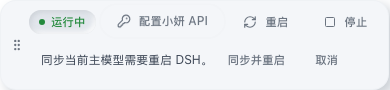
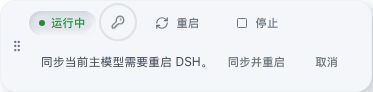
fix: 将浮窗 API 配置入口收为图标提示

diff --git a/apps/desktop/src/features/deepseek-harness/DshRuntimeControls.tsx b/apps/desktop/src/features/deepseek-harness/DshRuntimeControls.tsx
@@ -28,8 +28,8 @@ export default function DshRuntimeControls({
       </span>
       {phase === "running" && (
         <>
-          {onImportApi && <Button variant="ghost" size="sm" onClick={onImportApi} disabled={busy} title="同步小妍当前主模型到 DSH">
-            <KeyRound className="h-3.5 w-3.5" />配置小妍 API
+          {onImportApi && <Button variant="ghost" size="sm" className="h-8 w-8 flex-shrink-0 !p-0" onClick={onImportApi} disabled={busy} aria-label="配置小妍 API" title="配置小妍 API">
+            <KeyRound className="h-3.5 w-3.5" aria-hidden="true" />
           </Button>}
           <Button variant="ghost" size="sm" onClick={onRestart} disabled={busy}>
             <RefreshCw className="h-3.5 w-3.5" />

diff --git a/docs/releases/0.6.1-preflight.md b/docs/releases/0.6.1-preflight.md
@@ -15,7 +15,7 @@ GitHub 实际最新已发布版本为 `v0.5.4`。更新日志以 `git diff v0.5.
 
 - DSH 自动进入官方界面；旧必经启动页移至 `LegacyDshLaunchWorkspace.tsx`，仅注释原入口，保留完整源码与配置回归。
 - 非 DSH 的页面、后端模块、注册与设置入口注释停用；保留源码、子模块、固定版本、已有配置和用户数据；旧路由兼容转入 DSH。
-- API 同步由主 WebView 执行，避免浮窗在停止 DSH 后被销毁而丢失重启；提供确认、去重、恢复和结果回放。
+- API 同步使用钥匙图标，悬停提示“配置小妍 API”；由主 WebView 执行，避免浮窗在停止 DSH 后被销毁而丢失重启，提供确认、去重、恢复和结果回放。
 - 桌面小妍默认关闭；启用后的形象右键菜单提供打开面板、粘贴文件、设置和关闭。
 
 ## 自动化验证
@@ -33,6 +33,8 @@ GitHub 实际最新已发布版本为 `v0.5.4`。更新日志以 `git diff v0.5.
 | `node scripts/sync-version.mjs --version 0.6.1` | 二次执行无漂移 |
 
 单测覆盖自动启动、缺少运行时后安装、失败重试、手动停止不自动重启、重复同步请求、导入与重启错误反馈、主视图卸载后的重启完成，以及新浮窗状态恢复。端到端覆盖旧路由回退、移除代码助手设置、浮窗 API 确认/取消、禁用重复操作及停止/重启按钮无凸起阴影。
+
+API 入口收为图标后，DSH 工作区与浮窗 9 项单测、浮窗定向 E2E、全工作区 type-check 和 lint 再次通过，截图同步更新。
 
 完整测试还覆盖本分支累积的设置导入、备份恢复、增量同步、论文阅读、写作持久化与 PDF 生命周期回归。为通过原有严格断言，修复 PDF 首次动态导入时快速切换来源的并发，恢复 React StrictMode 测试根节点，计时器测试直接核对目标提示计时器的释放。
 
